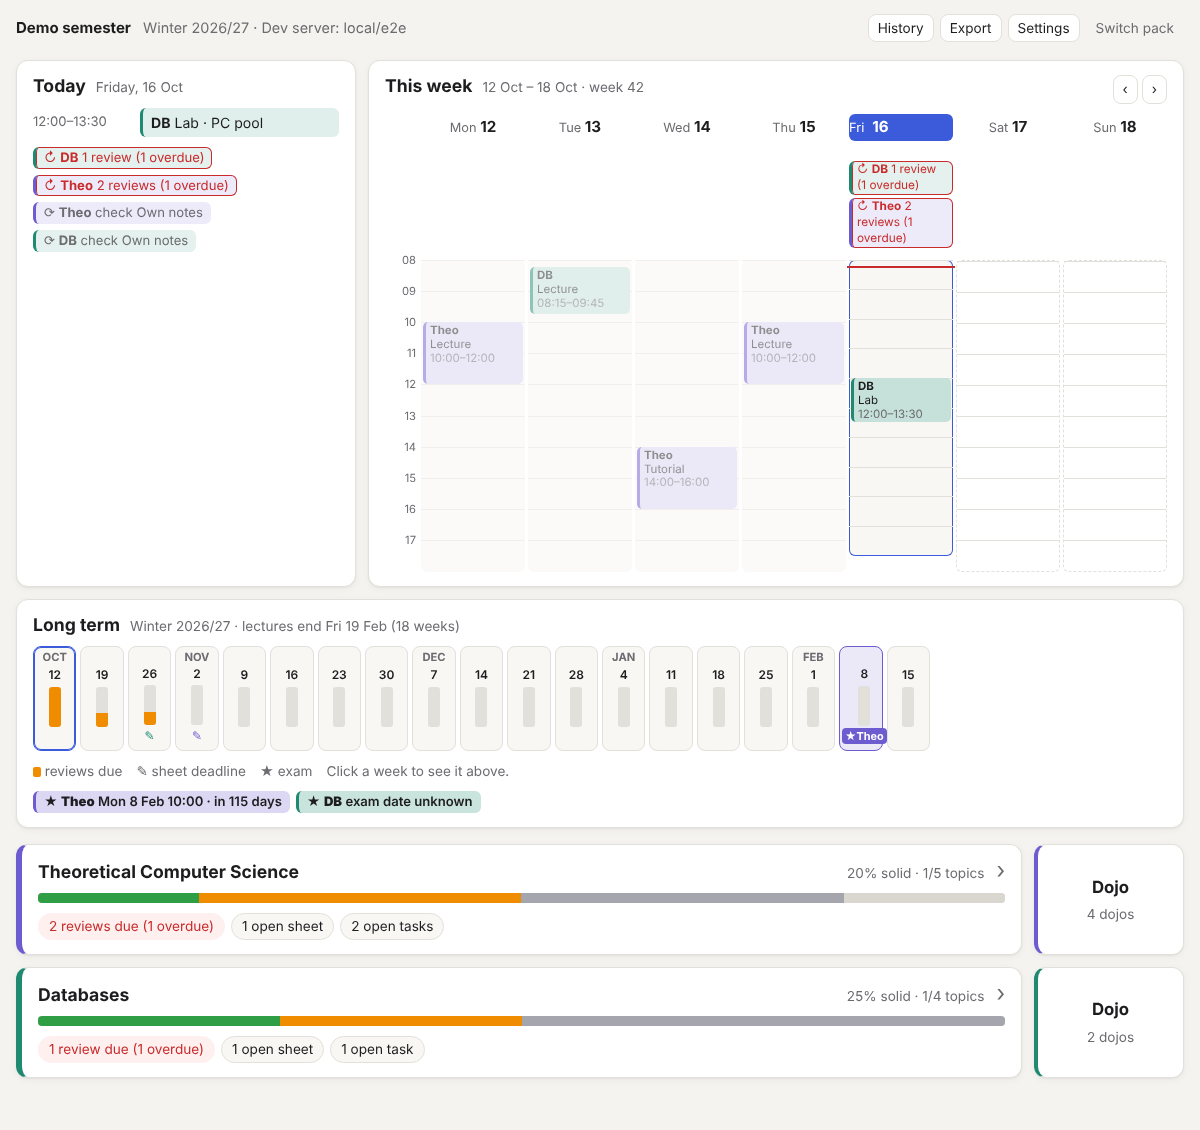
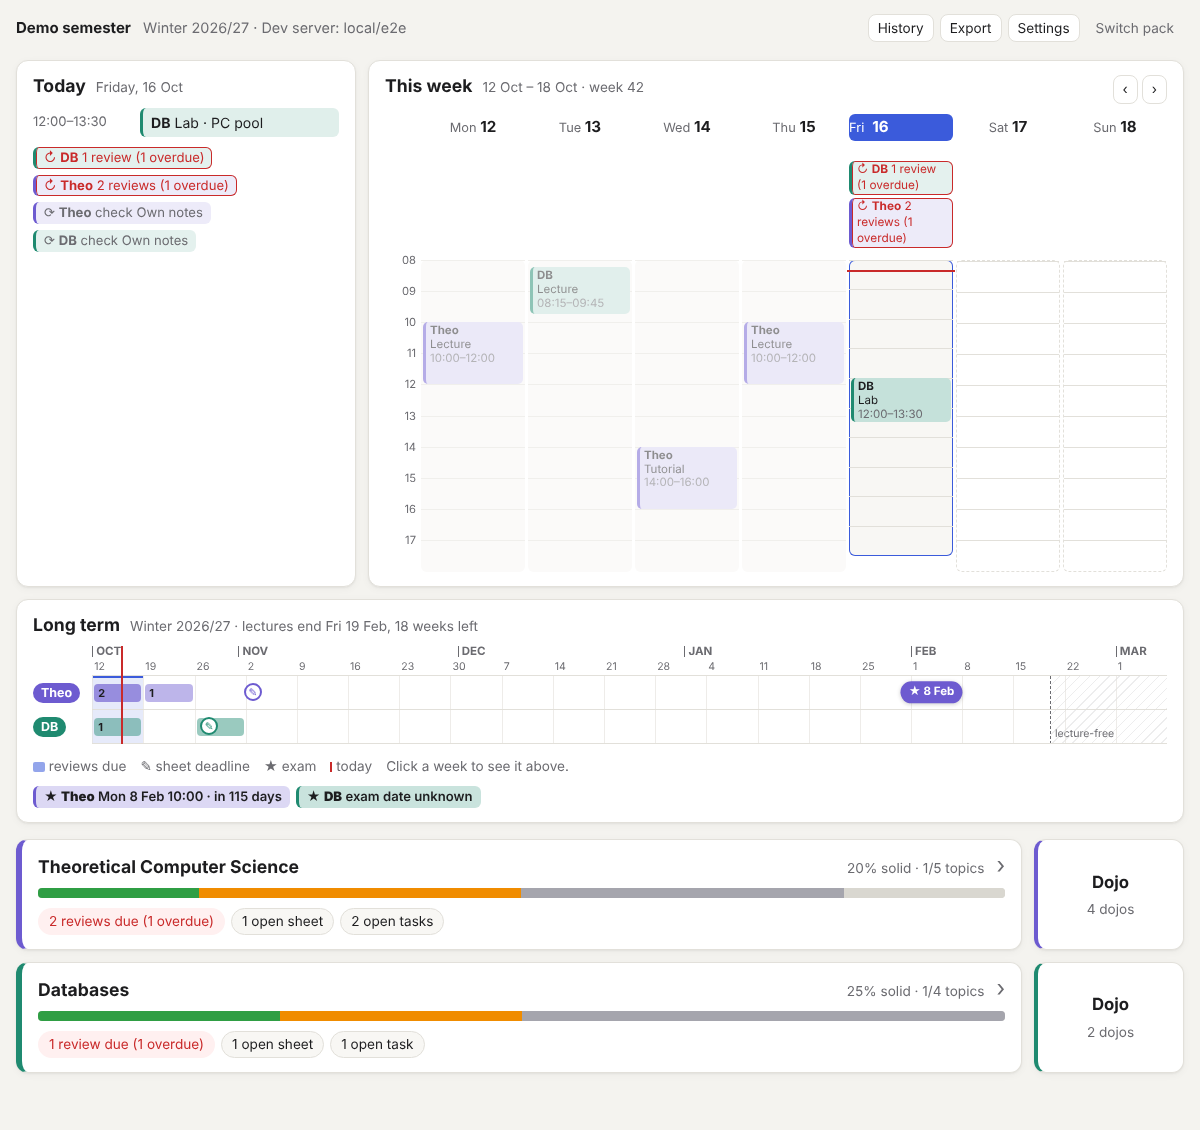
Show the long term as a timeline with one row per subject
Claude-Session: https://claude.ai/code/session_012F7amvFbtwtooJCAQqXZZX

diff --git a/src/ui/Calendar.tsx b/src/ui/Calendar.tsx
@@ -1,6 +1,6 @@
 import { useMemo, useState } from 'preact/hooks';
 import { addDays, diffDays, formatShort, weekday } from '../lib/dates';
-import { entriesOn, isoWeek, longTermWeeks, weekStart, type CalendarEntry, type CalendarWeek } from '../model/calendar';
+import { entriesOn, isoWeek, longTermWeeks, weekStart, type CalendarEntry } from '../model/calendar';
 import { EXAM_SOON_DAYS, isCheckStale } from '../model/derive';
 import type { ISODate, LoadedPack, Subject } from '../model/types';
 import { href, type Route } from './router';
@@ -250,11 +250,19 @@ function LongTermPanel({
   onPick: (start: ISODate) => void;
 }) {
   const weeks = useMemo(() => longTermWeeks(loaded, today), [loaded, today]);
-  const maxReviews = Math.max(1, ...weeks.map((w) => w.reviews));
+  const first = weeks[0].start;
+  const days = weeks.length * 7;
+  /** Horizontal position of a date, in % of the timeline. */
+  const x = (d: ISODate) => (diffDays(first, d) / days) * 100;
+  const sem = loaded.pack.semester;
+  const lectureEnd = sem?.end && sem.end >= first && x(sem.end) < 100 ? addDays(sem.end, 1) : null;
+  const months = weeks
+    .flatMap((w) => Array.from({ length: 7 }, (_, i) => addDays(w.start, i)))
+    .filter((d, i) => i === 0 || dayOfMonth(d) === 1);
   const exams = loaded.subjects
     .map((s) => ({ s, date: s.exam.date }))
     .sort((a, b) => (a.date ?? '9999').localeCompare(b.date ?? '9999'));
-  const sem = loaded.pack.semester;
+  const weeksLeft = sem?.end ? Math.max(0, Math.ceil(diffDays(today, sem.end) / 7)) : null;
 
   return (
     <section class="panel cal-long" aria-label="Long term">
@@ -262,20 +270,102 @@ function LongTermPanel({
         <h2>Long term</h2>
         <span class="muted small">
           {sem?.label ?? 'Semester'}
-          {sem?.end ? ` · lectures end ${formatShort(sem.end)} (${Math.max(0, Math.ceil(diffDays(today, sem.end) / 7))} weeks)` : ''}
+          {sem?.end && weeksLeft !== null
+            ? ` · lectures end ${formatShort(sem.end)}${weeksLeft ? `, ${weeksLeft} ${weeksLeft === 1 ? 'week' : 'weeks'} left` : ''}`
+            : ''}
         </span>
       </div>
-      <div class="lt-weeks" role="list">
-        {weeks.map((w, i) => (
-          <WeekCell w={w} first={i === 0 || monthOf(w.start) !== monthOf(weeks[i - 1].start)} max={maxReviews} selected={w.start === selected} onPick={onPick} />
-        ))}
+      <div class="tl-scroll">
+        <div class="tl" style={{ '--weeks': weeks.length }}>
+          <div class="tl-labels">
+            <span class="tl-axis-label" />
+            {loaded.subjects.map((s) => (
+              <a class="tl-label" style={{ '--c': s.color }} href={href({ name: 'subject', subject: s.id })} title={s.name}>
+                {label(s)}
+              </a>
+            ))}
+          </div>
+          <div class="tl-body">
+            <div class="tl-axis" aria-hidden="true">
+              {months.map((d) => (
+                <span class="tl-month" style={{ left: `${x(d)}%` }}>
+                  {monthOf(d)}
+                </span>
+              ))}
+              {weeks.map((w) => (
+                <span class="tl-tick" style={{ left: `${x(w.start)}%` }}>
+                  {dayOfMonth(w.start)}
+                </span>
+              ))}
+            </div>
+            <div class="tl-rows">
+              {lectureEnd && (
+                <div class="tl-free" style={{ left: `${x(lectureEnd)}%` }}>
+                  <span>lecture-free</span>
+                </div>
+              )}
+              {weeks.map((w) => (
+                <button
+                  class={`tl-week${w.start === selected ? ' selected' : ''}`}
+                  style={{ left: `${x(w.start)}%` }}
+                  onClick={() => onPick(w.start)}
+                  title={`Week ${w.week} (${formatShort(w.start)}): show it above`}
+                  aria-label={`Show week ${w.week} from ${formatShort(w.start)}`}
+                />
+              ))}
+              {loaded.subjects.map((s) => (
+                <div class="tl-row" style={{ '--c': s.color }}>
+                  {weeks.map((w) =>
+                    w.reviewsBy[s.id] ? (
+                      <span
+                        class="tl-load"
+                        style={{ left: `${x(w.start)}%`, '--a': Math.min(1, 0.25 + w.reviewsBy[s.id] * 0.2) }}
+                        title={`${s.name}: ${w.reviewsBy[s.id]} ${w.reviewsBy[s.id] === 1 ? 'review' : 'reviews'} due in week ${w.week}`}
+                      >
+                        {w.reviewsBy[s.id]}
+                      </span>
+                    ) : null,
+                  )}
+                  {weeks.flatMap((w) =>
+                    w.sheets
+                      .filter((e) => e.subject.id === s.id)
+                      .map((e) => (
+                        <a
+                          class="tl-sheet"
+                          style={{ left: `${x(e.date)}%` }}
+                          href={href({ name: 'sheet', subject: s.id, sheet: e.sheet! })}
+                          title={`${s.name}: ${e.text} due ${formatShort(e.date)}`}
+                        >
+                          ✎
+                        </a>
+                      )),
+                  )}
+                  {s.exam.date && s.exam.date >= first && x(s.exam.date) < 100 && (
+                    <a
+                      class={`tl-exam${x(s.exam.date) > 80 ? ' end' : ''}`}
+                      style={{ left: `${x(s.exam.date)}%` }}
+                      href={href({ name: 'subject', subject: s.id })}
+                      title={`${s.name} exam ${formatShort(s.exam.date)}${s.exam.time ? ` ${s.exam.time}` : ''}`}
+                    >
+                      ★ {dayOfMonth(s.exam.date)} {monthOf(s.exam.date)}
+                    </a>
+                  )}
+                </div>
+              ))}
+              <span class="tl-today" style={{ left: `${x(today)}%` }} title="Today" />
+            </div>
+          </div>
+        </div>
       </div>
       <div class="lt-legend small muted">
         <span>
-          <i class="lt-swatch reviews" /> reviews due
+          <i class="tl-swatch" /> reviews due
         </span>
         <span>✎ sheet deadline</span>
         <span>★ exam</span>
+        <span>
+          <i class="tl-swatch-now" /> today
+        </span>
         <span>Click a week to see it above.</span>
       </div>
       {exams.length > 0 && (
@@ -291,53 +381,6 @@ function LongTermPanel({
         </div>
       )}
     </section>
-  );
-}
-
-function WeekCell({
-  w,
-  first,
-  max,
-  selected,
-  onPick,
-}: {
-  w: CalendarWeek;
-  first: boolean;
-  max: number;
-  selected: boolean;
-  onPick: (start: ISODate) => void;
-}) {
-  const parts = [`Week ${w.week} from ${formatShort(w.start)}`];
-  if (w.reviews) parts.push(`${w.reviews} reviews due`);
-  for (const s of w.sheets) parts.push(`${s.subject.short ?? s.subject.name}: ${s.text} due ${formatShort(s.date)}`);
-  for (const e of w.exams) parts.push(`${e.subject.name} exam ${formatShort(e.date)}`);
-  return (
-    <button
-      role="listitem"
-      class={`lt-week${selected ? ' selected' : ''}${w.outside ? ' outside' : ''}${w.exams.length ? ' has-exam' : ''}`}
-      style={w.exams[0] ? { '--c': w.exams[0].subject.color } : undefined}
-      onClick={() => onPick(w.start)}
-      title={parts.join('\n')}
-      aria-label={parts.join(', ')}
-    >
-      <span class="lt-month">{first ? monthOf(w.start) : ''}</span>
-      <span class="lt-date">{dayOfMonth(w.start)}</span>
-      <span class="lt-bar">
-        <span style={{ height: `${(w.reviews / max) * 100}%` }} />
-      </span>
-      <span class="lt-marks">
-        {w.sheets.map((s) => (
-          <span class="lt-sheet" style={{ color: s.subject.color }}>
-            ✎
-          </span>
-        ))}
-        {w.exams.map((e) => (
-          <span class="lt-exam" style={{ background: e.subject.color }}>
-            ★{e.subject.short ?? ''}
-          </span>
-        ))}
-      </span>
-    </button>
   );
 }
 

diff --git a/src/styles.css b/src/styles.css
@@ -361,25 +361,55 @@ table.automaton.readonly td, table.automaton.readonly th { border: 1px solid var
 .wl-entries { display: flex; flex-wrap: wrap; gap: 4px; align-items: baseline; }
 .wl-entries .cal-slot { display: inline-block; padding: 2px 8px; font-size: 0.82rem; }
 
-/* Long term: one cell per week */
-.lt-weeks { display: grid; grid-template-columns: repeat(auto-fill, minmax(42px, 1fr)); gap: 4px; }
-.lt-week {
-  display: grid; grid-template-rows: 1em auto 40px auto; justify-items: center; gap: 2px;
-  padding: 4px 2px 5px; border-radius: 8px; border: 1px solid var(--border); background: var(--panel-2);
-  font-size: 0.75rem; color: var(--text); cursor: pointer;
+/* Long term: a timeline with one row per subject */
+.tl-scroll { overflow-x: auto; padding-bottom: 2px; }
+.tl { display: grid; grid-template-columns: max-content minmax(calc(var(--weeks) * 24px), 1fr); gap: 0 8px; }
+.tl-labels { display: grid; grid-template-rows: 30px; grid-auto-rows: 34px; position: sticky; left: 0; z-index: 5; background: var(--panel); padding-right: 4px; }
+.tl-label {
+  align-self: center; justify-self: start; max-width: 7em; overflow: hidden; text-overflow: ellipsis; white-space: nowrap;
+  border-radius: 999px; padding: 1px 8px; font-size: 0.78rem; font-weight: 700; text-decoration: none;
+  color: #fff; background: var(--c, var(--accent));
 }
-.lt-week:hover { border-color: var(--muted); }
-.lt-week.selected { border-color: var(--accent); box-shadow: inset 0 0 0 1px var(--accent); }
-.lt-week.outside { background: transparent; border-style: dashed; }
-.lt-week.has-exam { border-color: var(--c); background: color-mix(in srgb, var(--c) 14%, var(--panel)); }
-.lt-month { font-weight: 700; color: var(--muted); font-size: 0.7rem; text-transform: uppercase; }
-.lt-date { font-weight: 600; }
-.lt-bar { width: 12px; height: 40px; display: flex; align-items: flex-end; background: var(--border); border-radius: 3px; overflow: hidden; }
-.lt-bar span { display: block; width: 100%; background: var(--st-shaky); }
-.lt-marks { display: flex; flex-wrap: wrap; justify-content: center; gap: 2px; min-height: 1.2em; }
-.lt-exam { color: #fff; border-radius: 4px; padding: 0 3px; font-size: 0.68rem; font-weight: 700; }
+.tl-body { min-width: 0; }
+.tl-axis { position: relative; height: 30px; border-bottom: 1px solid var(--border); }
+.tl-month { position: absolute; top: 0; padding-left: 3px; border-left: 1px solid var(--muted); font-size: 0.72rem; font-weight: 700; color: var(--muted); text-transform: uppercase; line-height: 1; }
+.tl-tick { position: absolute; bottom: 2px; padding-left: 2px; font-size: 0.66rem; color: var(--muted); line-height: 1; }
+.tl-rows { position: relative; }
+.tl-row { position: relative; height: 34px; border-bottom: 1px solid var(--border); pointer-events: none; }
+.tl-row > * { pointer-events: auto; }
+.tl-week {
+  position: absolute; top: 0; bottom: 0; width: calc(100% / var(--weeks)); z-index: 0;
+  padding: 0; border: 0; border-radius: 0; background: transparent; cursor: pointer;
+  border-left: 1px solid color-mix(in srgb, var(--border) 60%, transparent);
+}
+.tl-week:hover { background: color-mix(in srgb, var(--accent) 7%, transparent); }
+.tl-week.selected { background: color-mix(in srgb, var(--accent) 13%, transparent); box-shadow: inset 0 2px 0 var(--accent); }
+.tl-free {
+  position: absolute; top: 0; bottom: 0; right: 0; pointer-events: none; overflow: hidden;
+  background: repeating-linear-gradient(135deg, transparent 0 6px, color-mix(in srgb, var(--muted) 12%, transparent) 6px 7px);
+  border-left: 1px dashed var(--muted);
+}
+.tl-free span { position: absolute; bottom: 2px; left: 4px; font-size: 0.66rem; color: var(--muted); white-space: nowrap; }
+.tl-load {
+  position: absolute; top: 8px; height: 18px; width: calc(100% / var(--weeks) - 4px); margin-left: 2px; z-index: 1;
+  display: flex; align-items: center; padding-left: 4px; border-radius: 4px; font-size: 0.68rem; font-weight: 700;
+  background: color-mix(in srgb, var(--c) calc(var(--a) * 100%), transparent); color: var(--text);
+}
+.tl-sheet {
+  position: absolute; top: 50%; transform: translate(-50%, -50%); z-index: 2;
+  width: 18px; height: 18px; display: grid; place-items: center; border-radius: 50%;
+  background: var(--panel); border: 2px solid var(--c); color: var(--c); font-size: 0.66rem; text-decoration: none;
+}
+.tl-exam {
+  position: absolute; top: 50%; transform: translateY(-50%); z-index: 3; white-space: nowrap;
+  border-radius: 999px; padding: 2px 8px; font-size: 0.72rem; font-weight: 700; text-decoration: none;
+  color: #fff; background: var(--c); box-shadow: 0 1px 4px rgb(0 0 0 / 0.2);
+}
+.tl-exam.end { transform: translate(-100%, -50%); }
+.tl-today { position: absolute; top: -30px; bottom: 0; z-index: 4; border-left: 2px solid var(--danger); pointer-events: none; }
 .lt-legend { display: flex; flex-wrap: wrap; gap: 4px 14px; align-items: center; }
-.lt-swatch { display: inline-block; width: 8px; height: 10px; border-radius: 2px; background: var(--st-shaky); vertical-align: -1px; }
+.tl-swatch { display: inline-block; width: 12px; height: 10px; border-radius: 2px; background: color-mix(in srgb, var(--accent) 55%, transparent); vertical-align: -1px; }
+.tl-swatch-now { display: inline-block; height: 10px; vertical-align: -1px; width: 2px; border-radius: 0; background: var(--danger); }
 
 @media (max-width: 900px) {
   .calendar { grid-template-columns: minmax(0, 1fr); grid-template-areas: 'today' 'week' 'long'; }

diff --git a/src/model/calendar.ts b/src/model/calendar.ts
@@ -95,6 +95,8 @@ export interface CalendarWeek {
   start: ISODate;
   week: number;
   reviews: number;
+  /** Subject id → reviews due that week. */
+  reviewsBy: Record<string, number>;
   sheets: CalendarEntry[];
   exams: CalendarEntry[];
   /** Lecture-free: the week is outside the semester. */
@@ -102,8 +104,9 @@ export interface CalendarWeek {
 }
 
 /**
- * Weeks from the current one up to the end of the semester or the last exam
- * or deadline, whichever is later (at least `minWeeks`, at most `maxWeeks`).
+ * Weeks from the current one up to two weeks after the end of the semester or
+ * the last exam or deadline, whichever is later (at least `minWeeks`, at most
+ * `maxWeeks`).
  */
 export function longTermWeeks(loaded: LoadedPack, today: ISODate, minWeeks = 8, maxWeeks = 30): CalendarWeek[] {
   const first = weekStart(today);
@@ -112,17 +115,21 @@ export function longTermWeeks(loaded: LoadedPack, today: ISODate, minWeeks = 8, 
     if (s.exam.date && s.exam.date > last) last = s.exam.date;
     for (const sh of s.sheets ?? []) if (sh.status === 'open' && sh.due && sh.due > last) last = sh.due;
   }
-  const count = Math.min(maxWeeks, Math.max(minWeeks, Math.floor(diffDays(first, last) / 7) + 1));
+  // Two more weeks so the end of lectures and the exam period stay visible.
+  const count = Math.min(maxWeeks, Math.max(minWeeks, Math.floor(diffDays(first, last) / 7) + 3));
   const sem = loaded.pack.semester;
   return Array.from({ length: count }, (_, i) => {
     const start = addDays(first, i * 7);
     const days = Array.from({ length: 7 }, (_, d) => addDays(start, d)).filter((d) => d >= today);
     const entries = days.flatMap((d) => entriesOn(loaded, d, today));
     const end = addDays(start, 6);
+    const reviewsBy: Record<string, number> = {};
+    for (const e of entries) if (e.kind === 'reviews') reviewsBy[e.subject.id] = (reviewsBy[e.subject.id] ?? 0) + (e.topics?.length ?? 0);
     return {
       start,
       week: isoWeek(start),
-      reviews: entries.filter((e) => e.kind === 'reviews').reduce((n, e) => n + (e.topics?.length ?? 0), 0),
+      reviews: Object.values(reviewsBy).reduce((a, b) => a + b, 0),
+      reviewsBy,
       sheets: entries.filter((e) => e.kind === 'sheet'),
       exams: entries.filter((e) => e.kind === 'exam'),
       outside: !!sem && ((!!sem.end && start > sem.end) || (!!sem.start && end < sem.start)),

diff --git a/tests/calendar.test.ts b/tests/calendar.test.ts
@@ -43,11 +43,12 @@ describe('calendar', async () => {
     expect(past.every((x) => x.kind === 'class')).toBe(true);
   });
 
-  it('spans the long term to the end of the semester', () => {
+  it('spans the long term past the end of the semester', () => {
     const weeks = longTermWeeks(loaded, today);
     expect(weeks[0].start).toBe('2026-10-12');
     expect(weeks[0].reviews).toBe(3); // powerset, regex, relational-algebra
-    expect(weeks.at(-1)!.start).toBe('2027-02-15'); // semester end
+    expect(weeks[0].reviewsBy).toEqual({ theo: 2, db: 1 });
+    expect(weeks.at(-1)!.start).toBe('2027-03-01'); // two weeks after the semester ends
     expect(weeks.find((w) => w.exams.length)?.start).toBe('2027-02-08');
     expect(weeks.find((w) => w.sheets.some((s) => s.sheet === 'b3'))?.start).toBe('2026-11-02');
   });
